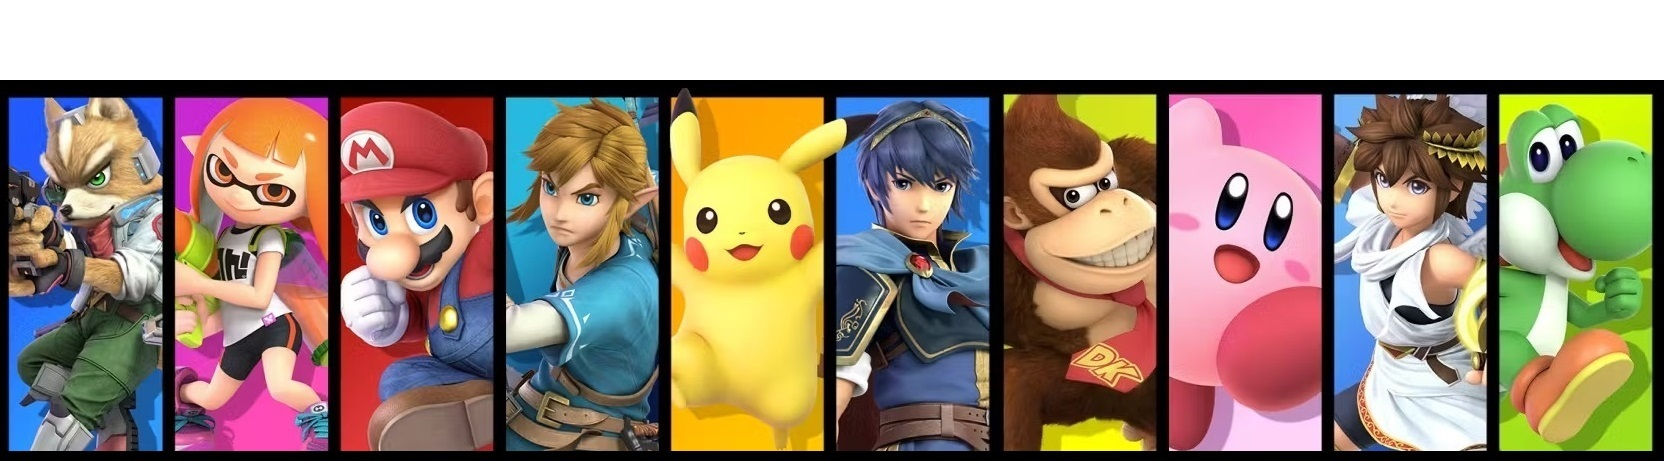
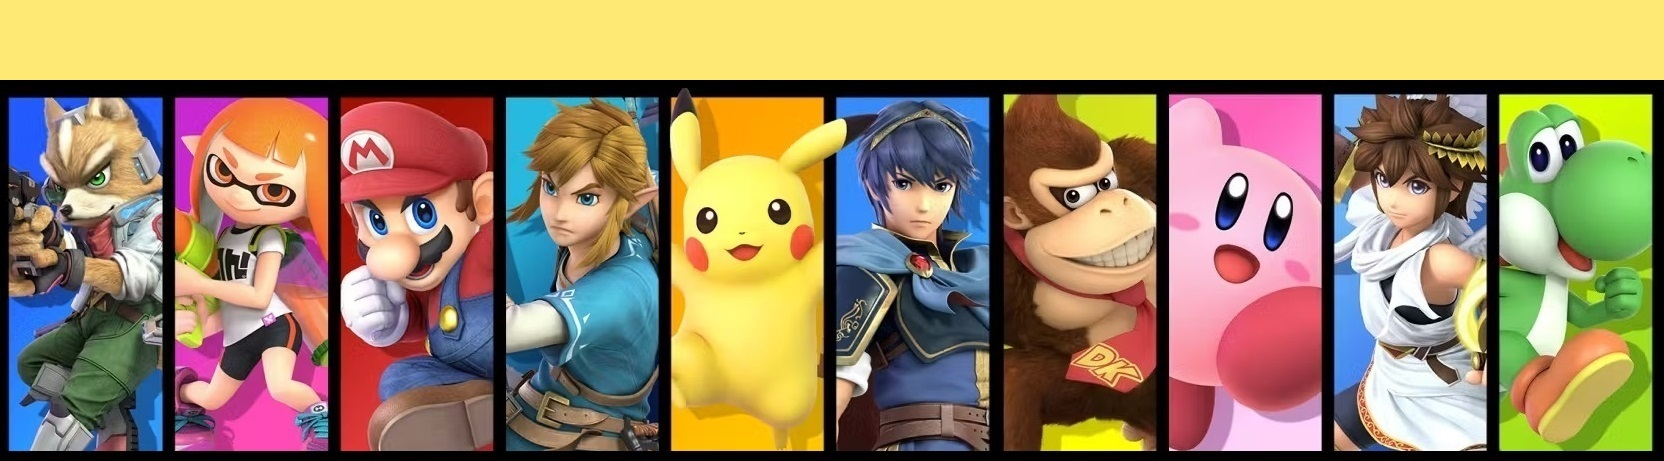
more front page styling and colors change

Changed region(s): [[0.0, 0.0, 1.0, 0.1822]]

diff --git a/CSS/style.css b/CSS/style.css
@@ -4,6 +4,7 @@ body {
     background-repeat: repeat-x;
     background-attachment: fixed;
     overflow-x: hidden;
+    background-color: rgb(113, 61, 255);
 }
 
 img {
@@ -35,15 +36,32 @@ form {
 }
 .search-bar {
     border-radius: 60px;
+    border-color: black;
     width: 47%;
     margin-left: 20%;
     margin-top: 150px;
     padding: 15px;
     font-family: "Yusei Magic";
-    text-size-adjust: 90%;
+    background: rgba(255, 255, 255, 0.7);
+}
+
+.search-bar input {
+    background: transparent;
+    flex: 1;
+    border: 0;
+    outline: none;
+    padding: 24px 20px;
+    font-size: 20px;
+}
+
+::placeholder {
+    color: black;
+    font-weight: 500;
 }
 
 .search-button {
+    background-color: black;
+    color: white;
     align-items: center;
     border-radius: 35px;
     width: 100px;
@@ -51,18 +69,20 @@ form {
     font-family: "Yusei Magic";
 }
 
+.amiibo-container {
+    display: flex;
+    justify-content: center;
+    flex-wrap: wrap;
+    margin-top: 170px;
+}
 .amiibo-item {
-    border: 5px solid rgb(21, 0, 114);
-    border-radius: 2px;
-    background-color: rgb(78, 171, 247);
+    border: 8px solid black;
+    border-radius: 5px;
+    background-color: rgb(253, 233, 115);
     margin: 20px;
     padding: 10px;
     width: 350px;
 }
 
-.amiibo-container {
-    display: center;
-    justify-content: center;
-    flex-wrap: wrap;
-}
+
 

diff --git a/index.html b/index.html
@@ -14,14 +14,13 @@
     <h1>Find your Favorite Amiibo Image</h1>
 
     <form class="js-form" action="#" method="get" >
-        <input class="search-bar" type="text" placeholder="Input Amiibo Name" name="amiibo-name" required>
+        <input class="search-bar" type="text" placeholder="Search Amiibo" name="amiibo-name" required>
         <button class="search-button" type="submit">Find Now!</button>
     </form>
 
-
-
+<div>
     <section class="js-amiibo-container amiibo-container"></section>
-
+</div>
 
 
     <script src="./JS/main.js"></script>
